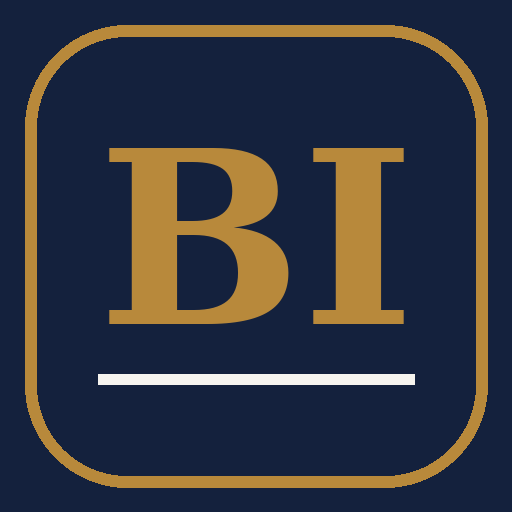
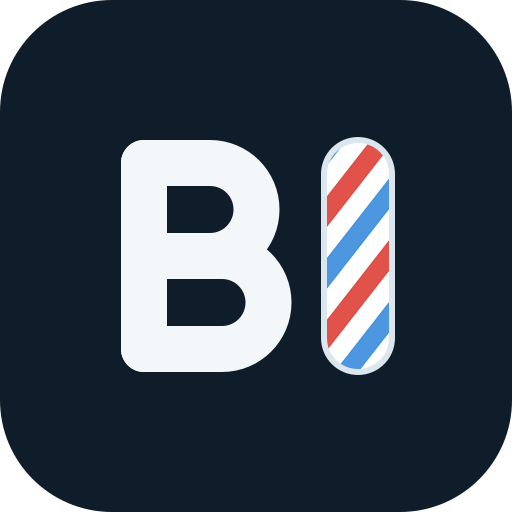
Identidade visual: icone B + poste e splash de abertura (#16)
Claude-Session: https://claude.ai/code/session_01ApuV3Hq9UXSe2nf8QpZ4Ku

diff --git a/index.html b/index.html
@@ -4,7 +4,7 @@
     <meta charset="UTF-8" />
     <meta name="viewport" content="width=device-width, initial-scale=1, viewport-fit=cover, interactive-widget=resizes-content" />
     <link rel="preconnect" href="%VITE_SUPABASE_URL%" crossorigin />
-    <meta name="theme-color" content="#14213d" />
+    <meta name="theme-color" content="#0E1D29" />
     <meta name="description" content="Gestão da sua barbearia: agenda, caixa, clientes e estoque." />
     <link rel="manifest" href="/manifest.webmanifest" />
     <link rel="icon" type="image/svg+xml" href="/favicon.svg" />
@@ -12,8 +12,35 @@
     <meta name="apple-mobile-web-app-capable" content="yes" />
     <meta name="apple-mobile-web-app-title" content="Barbeiro" />
     <title>Barbeiro Inteligente</title>
+    <style id="splash-css">
+#splash{position:fixed;inset:0;z-index:9999;display:flex;flex-direction:column;align-items:center;justify-content:center;gap:30px;background:#0E1D29;color:#F4F7F9;font-family:system-ui,-apple-system,"Segoe UI",Roboto,sans-serif;padding:env(safe-area-inset-top) 0 env(safe-area-inset-bottom);transition:opacity .25s ease}
+#splash.sair{opacity:0;pointer-events:none}
+#splash .marca{width:min(46vw,190px);height:auto;margin-top:-6vh;display:block}
+#splash .nome{margin:0;text-align:center;line-height:1}
+#splash .nome b{display:block;font-weight:800;font-size:17px;letter-spacing:.34em;padding-left:.34em}
+#splash .nome span{display:block;margin-top:9px;font-weight:600;font-size:11px;letter-spacing:.52em;padding-left:.52em;color:#8FA3B3}
+#splash .roll{animation:spl-roll 1.6s linear infinite}
+@keyframes spl-roll{to{transform:translateX(76px)}}
+@media (prefers-reduced-motion:reduce){#splash .roll{animation:none}#splash{transition:none}}
+    </style>
   </head>
   <body>
+    <div id="splash" role="status" aria-label="Carregando">
+      <svg class="marca" viewBox="110 130 296 252" aria-hidden="true">
+        <defs>
+          <pattern id="spl-p" width="76" height="76" patternUnits="userSpaceOnUse"><rect width="76" height="76" fill="#fff"/><rect width="19" height="76" fill="#E0524A"/><rect x="38" width="19" height="76" fill="#4C97E0"/></pattern>
+          <clipPath id="spl-c"><rect x="326" y="140" width="68" height="232" rx="34"/></clipPath>
+        </defs>
+        <g transform="translate(-2 0)">
+          <g fill="none" stroke="#F4F7F9" stroke-width="46" stroke-linecap="round" stroke-linejoin="round">
+            <path d="M146 163V349"/><path d="M146 163H212a46.5 46.5 0 0 1 0 93H146"/><path d="M146 256H224a46.5 46.5 0 0 1 0 93H146"/>
+          </g>
+          <g clip-path="url(#spl-c)"><g transform="rotate(38 360 256)"><rect class="roll" x="-500" y="-500" width="1700" height="1700" fill="url(#spl-p)"/></g></g>
+          <rect x="326" y="140" width="68" height="232" rx="34" fill="none" stroke="#DCE6EE" stroke-width="6"/>
+        </g>
+      </svg>
+      <p class="nome"><b>BARBEIRO</b><span>INTELIGENTE</span></p>
+    </div>
     <div id="root"></div>
     <script type="module" src="/src/main.jsx"></script>
   </body>

diff --git a/test/splash.test.js b/test/splash.test.js
@@ -1,0 +1,52 @@
+// @vitest-environment jsdom
+import { describe, it, expect, beforeEach, afterEach, vi } from 'vitest'
+import { readFileSync } from 'node:fs'
+import { join } from 'node:path'
+
+const raiz = (f) => join(process.cwd(), f)
+const largura = (png) => readFileSync(raiz(`public/${png}`)).readUInt32BE(16) // IHDR: largura
+
+describe('splash de abertura', () => {
+  beforeEach(() => { vi.useFakeTimers(); vi.resetModules(); document.body.innerHTML = '<div id="splash"></div>' })
+  afterEach(() => { vi.useRealTimers() })
+
+  it('faz fade e remove o elemento depois da transicao', async () => {
+    const { esconderSplash } = await import('../src/lib/splash.js')
+    esconderSplash()
+    expect(document.getElementById('splash').classList.contains('sair')).toBe(true)
+    vi.advanceTimersByTime(300)
+    expect(document.getElementById('splash')).toBe(null)
+  })
+
+  it('chamar mais de uma vez nao quebra', async () => {
+    const { esconderSplash } = await import('../src/lib/splash.js')
+    esconderSplash(); esconderSplash()
+    vi.advanceTimersByTime(300)
+    expect(document.getElementById('splash')).toBe(null)
+  })
+
+  it('sem elemento no DOM (testes, SSR) nao faz nada', async () => {
+    document.body.innerHTML = ''
+    const { esconderSplash } = await import('../src/lib/splash.js')
+    expect(() => esconderSplash()).not.toThrow()
+  })
+})
+
+describe('identidade visual', () => {
+  it('cor do manifest, do theme-color e do fundo da splash sao a mesma (sem quadrado no splash do Android)', () => {
+    const manifest = JSON.parse(readFileSync(raiz('public/manifest.webmanifest'), 'utf8'))
+    const html = readFileSync(raiz('index.html'), 'utf8')
+    const tema = html.match(/name="theme-color" content="(#[0-9A-Fa-f]{6})"/)[1]
+    const fundo = html.match(/#splash\{[^}]*background:(#[0-9A-Fa-f]{6})/)[1]
+    const cores = [manifest.background_color, manifest.theme_color, tema, fundo].map((c) => c.toUpperCase())
+    expect(new Set(cores).size).toBe(1)
+    expect(cores[0]).toBe('#0E1D29')
+  })
+
+  it('icones do PWA existem nos tamanhos declarados', () => {
+    expect(largura('icon-192.png')).toBe(192)
+    expect(largura('icon-512.png')).toBe(512)
+    expect(largura('icon-maskable-512.png')).toBe(512)
+    expect(largura('apple-touch-icon.png')).toBe(180)
+  })
+})

diff --git a/src/App.jsx b/src/App.jsx
@@ -9,6 +9,7 @@ import { useRota } from './hooks/useRota.js'
 import { useBadges } from './hooks/useBadges.js'
 import { limparCache } from './lib/cache.js'
 import { lerRotaPublica } from './lib/agendaPublica.js'
+import { esconderSplash } from './lib/splash.js'
 
 // Cada tela vira um arquivo separado, baixado so quando e aberta (o app abre mais rapido).
 // Depois do primeiro carregamento, as demais sao baixadas em segundo plano para o menu ser instantaneo.
@@ -40,6 +41,12 @@ function Esqueleto() {
 // Pagina publica de agendamento (#/agendar): carrega sob demanda e nao exige login
 const AgendarPublico = lazy(() => import('./pages/AgendarPublico.jsx'))
 const CancelarPublico = lazy(() => import('./pages/CancelarPublico.jsx'))
+
+// Montado dentro do Suspense: so executa quando a tela carregada sob demanda aparece
+function SplashOff() {
+  useEffect(() => { esconderSplash() }, [])
+  return null
+}
 
 const CHAVE_BARBEARIA = 'bi-barbearia-ativa'
 
@@ -89,9 +96,14 @@ export default function App() {
 
   useEffect(() => { if (ativaId) gravarAtiva(ativaId) }, [ativaId])
 
+  // Splash: some quando ha o que mostrar (login, erro, ou dados carregados). Pagina publica usa o SplashOff.
+  const pronto = !rotaPublica && (!configurado || sessao === null || !!erro || (!!sessao && barbearias !== null))
+  useEffect(() => { if (pronto) esconderSplash() }, [pronto])
+
   if (rotaPublica) {
     return (
       <Suspense fallback={<main className="centro"><p className="mudo">Carregando...</p></main>}>
+        <SplashOff />
         {rotaPublica.tipo === 'cancelar'
           ? <CancelarPublico slug={rotaPublica.slug} id={rotaPublica.id} />
           : <AgendarPublico slug={rotaPublica.slug} />}

diff --git a/src/main.jsx b/src/main.jsx
@@ -5,8 +5,11 @@ import ErroGeral from './components/ErroGeral.jsx'
 import '@fontsource-variable/manrope'
 import './styles.css'
 import { aplicarTemaSalvo } from './hooks/useTema.js'
+import { esconderSplash } from './lib/splash.js'
 
 aplicarTemaSalvo()
+// Rede de seguranca: se nada resolver em 10 s, a splash sai e o app mostra o que tiver
+setTimeout(esconderSplash, 10000)
 
 createRoot(document.getElementById('root')).render(
   <StrictMode>

diff --git a/src/lib/splash.js b/src/lib/splash.js
@@ -1,0 +1,12 @@
+// Splash de abertura: o HTML do index.html cobre a tela ate o app ter o que mostrar.
+// Some com fade quando a sessao e os dados iniciais resolvem (ver App.jsx).
+let escondida = false
+
+export function esconderSplash() {
+  if (escondida) return
+  escondida = true
+  const el = document.getElementById('splash')
+  if (!el) return
+  el.classList.add('sair')
+  setTimeout(() => el.remove(), 300)
+}
